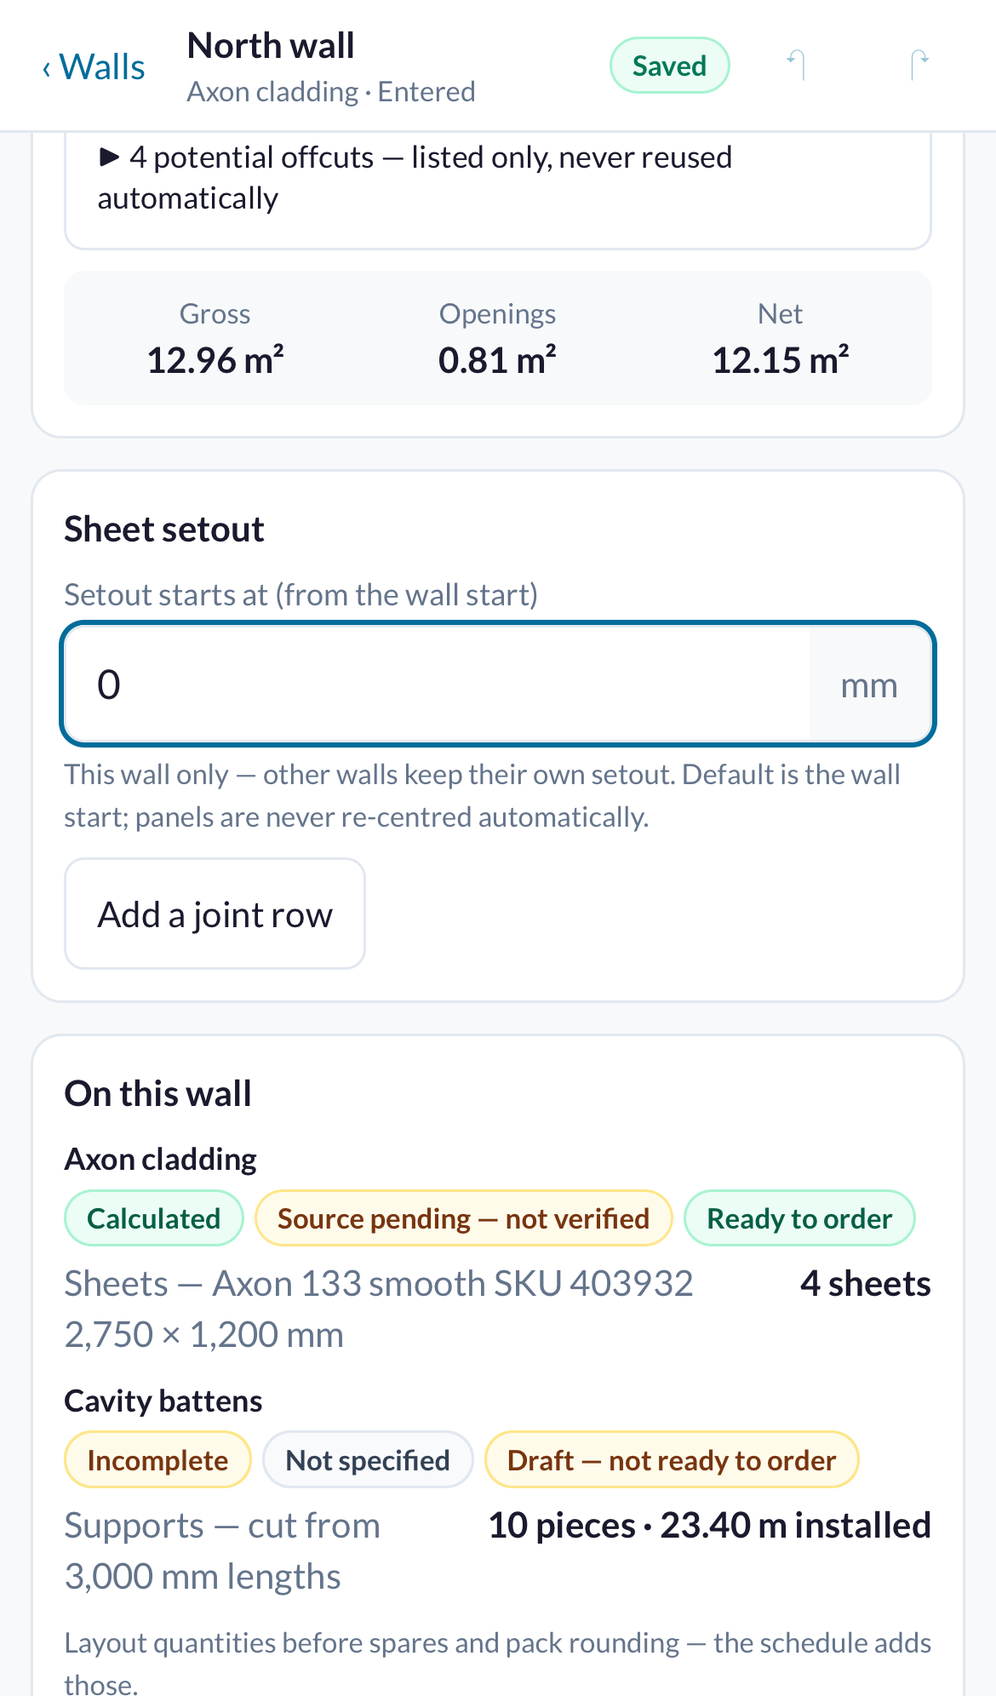
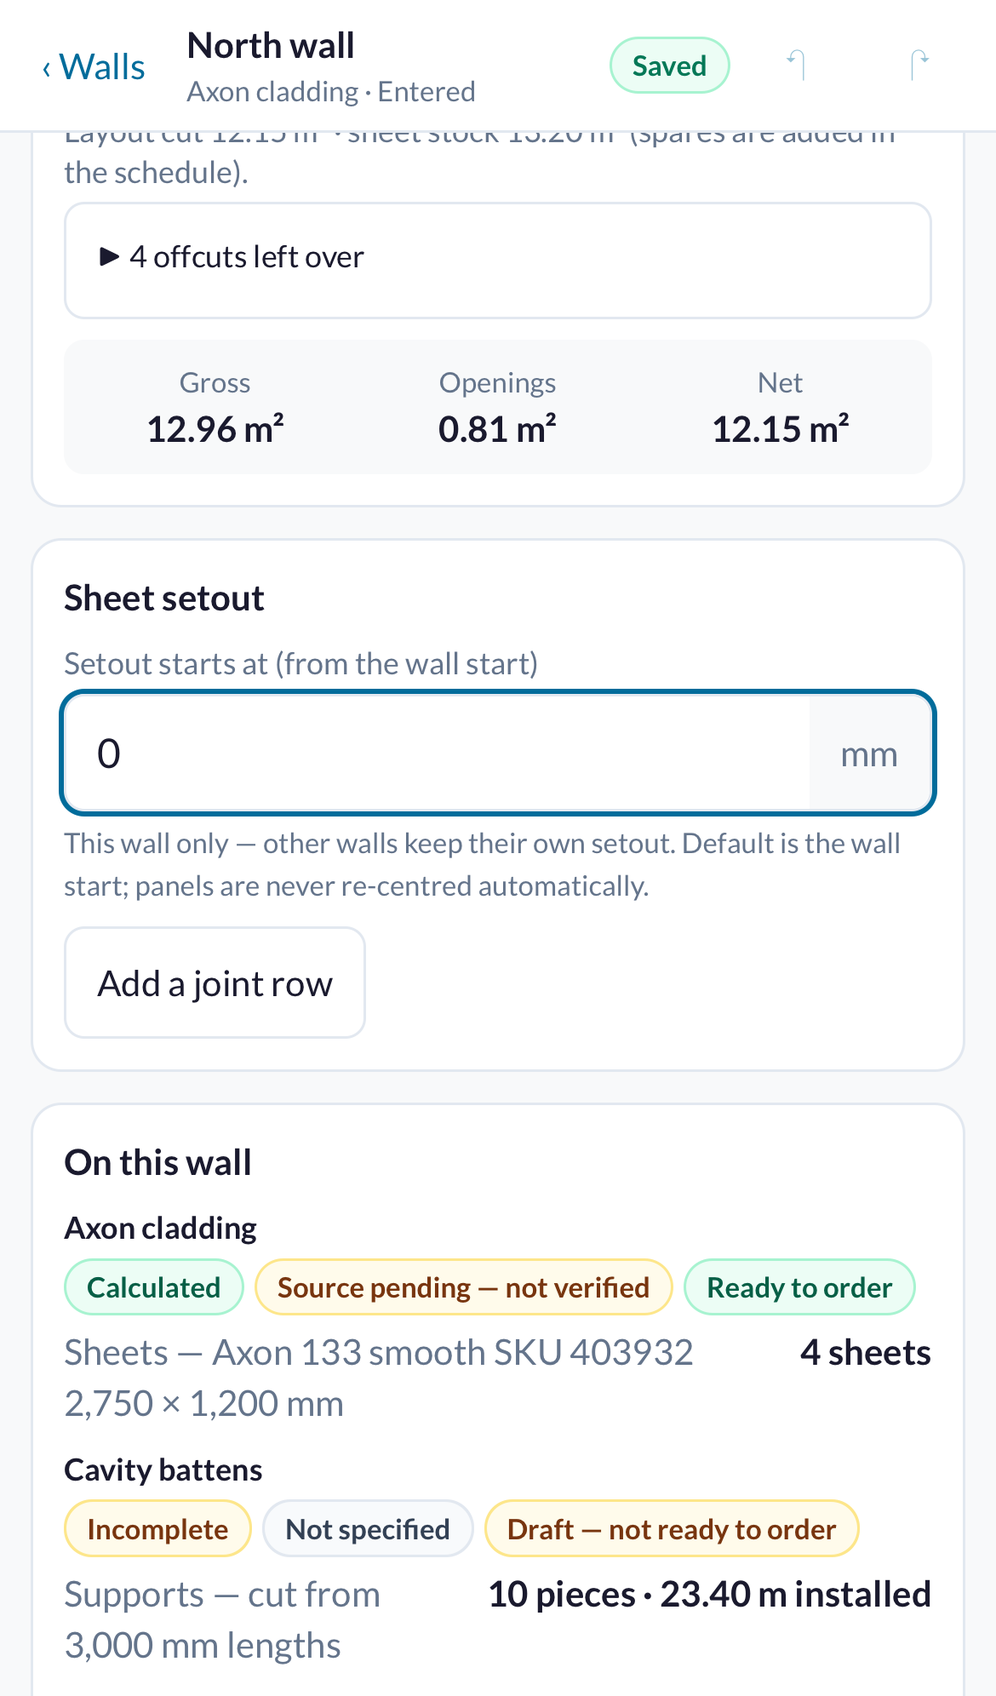
Share sheets across a wall, keeping the long factory edges (Hub review HUB 016)
Pieces are cut across the sheet's length only, so the tongue-and-groove
long edges stay and the 1,200 mm width is never cut down. Short pieces in
the same strip width are cut end to end from one sheet with a 5 mm kerf; a
ripped strip's offcut is reused only where its factory edge matches. The
recorded 6,573 x 3,600 Axon wall goes from 12 sheets to 8.

diff --git a/src/components/takeoff/WallsScreen.jsx b/src/components/takeoff/WallsScreen.jsx
@@ -392,7 +392,8 @@ function claddingElements(entry, bbox, wallProblems) {
   if (!layout) return { items, guides, notes, sheetInfo };
   const demandOf = (() => {
     const map = new Map();
-    for (const d of demandsForWall(result, entry.wallId, entry.tag)) { const c = d.sourceRefs?.[0]?.cell; if (c && !map.has(c)) map.set(c, d); }
+    // a shared sheet (HUB 016) lists every cell cut from it
+    for (const d of demandsForWall(result, entry.wallId, entry.tag)) for (const r of d.sourceRefs || []) { const c = r?.cell; if (c && !map.has(c)) map.set(c, d); }
     return (id) => map.get(id) || null;
   })();
   const narrowRefs = wallProblems.filter((p) => p.code === "narrow_strip").flatMap((p) => p.refs || []);
@@ -400,6 +401,8 @@ function claddingElements(entry, bbox, wallProblems) {
     const cols = new Map((layout.columns || []).map((c) => [c.index, c]));
     const multi = (layout.courses || []).length > 1;
     const tallest = Math.max(0, ...(layout.stockLengthsMm || []));
+    const cellById = new Map((layout.cells || []).map((c) => [c.id, c]));
+    const cellName = (id) => { const c = cellById.get(id); return c ? `strip ${c.col + 1}${multi ? ` course ${c.row + 1}` : ""}` : "another strip"; };
     for (const c of layout.cells || []) {
       const name = `Strip ${c.col + 1}${multi ? `, course ${c.row + 1}` : ""}`;
       if (!c.occupied) { items.push({ id: c.id, kind: "rect", rect: c.rect, state: "empty", info: { title: name, rows: [["Sheet", "None — no cladding in this cell"]], note: "Empty cells use no sheet." } }); continue; }
@@ -413,6 +416,8 @@ function claddingElements(entry, bbox, wallProblems) {
           rows: [
             ["Stock", tooTall ? `None fits — needs ${fmtMm(c.requiredLengthMm)} mm; ${layout.orientation === "horizontal" ? "longest" : "tallest"} listed is ${fmtMm(tallest)} mm` : `${c.sku ? `SKU ${c.sku} · ` : ""}${fmtMm(c.stockLengthMm)}${sheetW ? ` × ${fmtMm(sheetW)}` : ""} mm sheet`],
             ["Cut size", `${fmtMm(c.cutWidthMm)} × ${fmtMm(c.cutLengthMm)} mm`],
+            ...(c.sheetId && !tooTall ? [["From", c.source === "offcut" ? `The offcut of ${cellName(c.sharedWith?.[0])}'s sheet (${c.sheetId.replace("S", "sheet ")})`
+              : c.sharedWith?.length ? `${c.sheetId.replace("S", "Sheet ")} — shared with ${c.sharedWith.map(cellName).join(", ")}` : `${c.sheetId.replace("S", "Sheet ")} (its own)`]] : []),
             ...(layout.heightAllowanceMm ? [["Needed", `${fmtMm(c.requiredLengthMm)} mm incl. ${fmtMm(layout.heightAllowanceMm)} allowance`]] : []),
           ],
           note: tooTall ? (layout.orientation === "horizontal" ? "Longer than the longest listed sheet — add a joint row with its detail, or choose a longer listed sheet." : "Taller than the tallest listed sheet — add a joint row with its detail, or choose a taller listed sheet.") : col?.kind === "cut" ? `Cut strip: ${fmtMm(col.widthMm)} mm of the ${fmtMm(layout.coverMm)} mm cover.` : null,
@@ -421,12 +426,15 @@ function claddingElements(entry, bbox, wallProblems) {
     }
     for (const j of layout.joints || []) j.segments.forEach((s, k) => items.push(jointLine(j, s, k, "")));
     guides.push({ axis: layout.orientation === "horizontal" ? "y" : "x", at: layout.datumMm, label: "datum" });
-    // C0/C1: strips, cut strips (a 1 mm strip still takes a whole sheet), layout-cut vs stock area, potential offcuts
+    // C0/C1: strips, cut strips, layout-cut vs stock area; HUB 016: pieces share stock sheets (cutPlan), offcuts left over
     const cutCols = (layout.columns || []).filter((c) => c.kind !== "full");
-    const sheets = (layout.cells || []).filter((c) => c.occupied && c.stockLengthMm != null).length;
+    const pieces = (layout.cells || []).filter((c) => c.occupied && c.stockLengthMm != null).length;
+    const sheets = layout.cutPlan ? layout.cutPlan.sheets.length : pieces;   // HUB 016: sheets are shared — the planned stock sheets
     if ((layout.cells || []).length) {
       sheetInfo = {
-        strips: (layout.columns || []).length, cutWidths: cutCols.map((c) => c.widthMm), courses: (layout.courses || []).length, sheets,
+        strips: (layout.columns || []).length, cutWidths: cutCols.map((c) => c.widthMm), courses: (layout.courses || []).length, sheets, pieces,
+        kerfMm: layout.cutPlan?.kerfMm ?? null, shared: !!layout.cutPlan,
+        refused: (layout.cutPlan?.rejected || []).map((x) => `${cellName(x.cellId)} can't use the offcut from ${cellName(x.fromCellId)} — that offcut has the other long factory edge (tongue / groove)`),
         empty: (layout.cells || []).filter((c) => !c.occupied).length, layoutCutM2: layout.areas?.layoutCutM2, stockM2: layout.areas?.stockM2,
         offcuts: (layout.potentialOffcuts || []).map((o) => ({ ...o, cell: (layout.cells || []).find((c) => c.id === o.cellId) })),
       };
@@ -1623,11 +1631,13 @@ function WallEditor({ ws, view, wall, material, results, canEdit, act, onTrace, 
               <div className="space-y-1 text-xs text-ink" data-sheet-summary="">
                 <p>{plural(si.strips, "strip")}{si.cutWidths.length ? ` (${si.cutWidths.length} cut: ${si.cutWidths.map((w) => `${fmtMm(Math.round(w * 10) / 10)} mm`).join(", ")} wide)` : ""} × {plural(si.courses, "course")} → <b>{plural(si.sheets, "sheet")}</b>{si.empty ? ` · ${plural(si.empty, "empty cell")} use none` : ""}. A cut strip still uses a whole sheet.</p>
                 {Number.isFinite(si.layoutCutM2) && <p className="text-muted">Layout cut {fmtM2(si.layoutCutM2)} m² · sheet stock {fmtM2(si.stockM2)} m² (spares are added in the schedule).</p>}
-                {si.offcuts.length > 0 && (
+                {si.shared && si.pieces > si.sheets && <p data-sheet-shared="">{si.pieces} pieces cut from {plural(si.sheets, "sheet")}: sheets are shared across the wall, cut across their length only (the long factory edges stay), allowing {fmtMm(si.kerfMm)} mm per saw cut.</p>}
+                {(si.offcuts.length > 0 || si.refused.length > 0) && (
                   <details className="rounded-lg border border-hairline px-3" data-offcuts="">
-                    <summary className="min-h-[44px] cursor-pointer py-3 text-xs">{plural(si.offcuts.length, "potential offcut")} — listed only, never reused automatically</summary>
+                    <summary className="min-h-[44px] cursor-pointer py-3 text-xs">{si.shared ? `${plural(si.offcuts.length, "offcut")} left over` : `${plural(si.offcuts.length, "potential offcut")} — listed only, never reused automatically`}</summary>
                     <ul className="list-disc space-y-0.5 pb-2 pl-4 text-muted">
-                      {si.offcuts.map((o, i) => <li key={`${o.cellId}-${i}`}>Strip {(o.cell?.col ?? 0) + 1}{si.courses > 1 ? `, course ${(o.cell?.row ?? 0) + 1}` : ""}: {fmtMm(Math.round(o.widthMm))} × {fmtMm(Math.round(o.lengthMm))} mm</li>)}
+                      {si.offcuts.map((o, i) => <li key={`${o.cellId}-${i}`}>{o.sheetId ? `${o.sheetId.replace("S", "Sheet ")} (strip ${(o.cell?.col ?? 0) + 1}${si.courses > 1 ? `, course ${(o.cell?.row ?? 0) + 1}` : ""})` : `Strip ${(o.cell?.col ?? 0) + 1}${si.courses > 1 ? `, course ${(o.cell?.row ?? 0) + 1}` : ""}`}: {fmtMm(Math.round(o.widthMm))} × {fmtMm(Math.round(o.lengthMm))} mm</li>)}
+                      {si.refused.map((r) => <li key={r} data-offcut-refused="">{r}</li>)}
                     </ul>
                   </details>
                 )}

diff --git a/shared/takeoff/engine/cladding.js b/shared/takeoff/engine/cladding.js
@@ -22,6 +22,7 @@
 // blocking QUANTITY problems withhold demands. Inputs are validated, never thrown on.
 // =============================================================================
 import { EPS_MM, UNITS, demandId, emptyResult, identityKey, problem } from "./contract.js";
+import { planSheets } from "./sheetCutPlan.js";
 import { ceilToIncrement, formatMm, isFiniteNumber } from "../units.js";
 import {
   jointSpans, lineSpans, materialPieces, normaliseOpenings, piecesExtent, projectIntervals, subtractIntervals,
@@ -583,20 +584,68 @@ export function sheetLayout(wall, openings, product, rawOpts) {
     });
   }
 
+  // HUB 016: fibre-cement sheets are SHARED across the wall — cut across their length only, long factory edges kept —
+  // so the order is the planned stock sheets, never one sheet per cell (a foam system keeps one per cell)
+  let cutPlan = null;
+  const cellSheets = res.demands.filter((d) => d.role === "sheet");
+  if (base.family === "cladding" && cellSheets.length) {
+    const byCell = new Map(cells.filter((c) => c.occupied && c.stockLengthMm).map((c) => [c.id, c]));
+    const occ = new Set([...byCell.values()].map((c) => `${c.col}:${c.row}`));
+    const pieces = [...byCell.values()].map((c) => {
+      const left = occ.has(`${c.col - 1}:${c.row}`), right = occ.has(`${c.col + 1}:${c.row}`);
+      return { cellId: c.id, widthMm: c.cutWidthMm, lengthMm: c.requiredLengthMm, keep: left && right ? "full" : left ? "left" : right ? "right" : "none" };
+    });
+    const sheetW = prod.variants[0].rec.dimensionsMm.width;
+    const plan = planSheets({ pieces, lengthsMm: prod.variants.map((x) => x.lengthMm), sheetWidthMm: sheetW, coverMm: cover, kerfMm: opts.sheetCut?.kerfMm });
+    const demandOfCell = new Map(cellSheets.map((d) => [d.id, d]));
+    res.demands = res.demands.filter((d) => d.role !== "sheet");
+    stockMm2 = 0;
+    const name = (id) => { const c = byCell.get(id); return `strip ${c.col + 1}${rows.length > 1 ? ` course ${c.row + 1}` : ""}`; };
+    const fromOffcutOf = new Map(plan.fromOffcut.map((f) => [f.cellId, f.fromCellId]));
+    for (const sh of plan.sheets) {
+      const v = prod.variants.find((x) => Math.abs(x.lengthMm - sh.stockLengthMm) < EPS_MM) || prod.variants[prod.variants.length - 1];
+      const riders = plan.lanes.filter((l) => sh.cellIds.includes(l.fromCellId)).flatMap((l) => l.cellIds);
+      const all = [...sh.cellIds, ...riders];
+      const refs = all.flatMap((id) => demandOfCell.get(demandId(materialId, ctx.wallId, "sheet", id))?.sourceRefs || []);
+      stockMm2 += sheetW * v.lengthMm;
+      res.demands.push({
+        id: demandId(materialId, ctx.wallId, "sheet", sh.cellIds[0]), materialId, role: "sheet", kind: "sheet", unit: "sheet",
+        widthMm: sheetW, heightMm: v.lengthMm, quantity: 1,
+        identity: stockIdentity(v.rec, { orientation, unit: "sheet", stockLengthMm: v.lengthMm, stockWidthMm: sheetW }),
+        label: `${ctx.wallId} sheet ${sh.id.slice(1)} — ${v.rec.sku ?? v.rec.name} ${mm(v.lengthMm)}: ${all.length > 3 ? `${all.length} pieces` : all.map(name).join(", ")}`,
+        sourceRefs: refs, provenance: "calculated",
+      });
+      for (const id of all) { const c = byCell.get(id); c.sheetId = sh.id; c.source = fromOffcutOf.has(id) ? "offcut" : "sheet"; c.sharedWith = all.filter((x) => x !== id); c.stockLengthMm = v.lengthMm; c.sku = v.rec.sku ?? null; c.productId = v.rec.id ?? null; }
+    }
+    // what is left: each sheet's end beyond its cuts (full width) and each rip's unused part — listed, never counted as reused
+    offcuts.length = 0;
+    for (const sh of plan.sheets) if (sh.residualMm > EPS_MM) offcuts.push({ cellId: sh.cellIds[sh.cellIds.length - 1], sheetId: sh.id, widthMm: sheetW, lengthMm: sh.residualMm, allocated: false });
+    for (const l of plan.lanes) {
+      const left = l.lengthMm - l.usedMm - (l.cellIds.length ? plan.kerfMm : 0);
+      if (l.cellIds.length === 0) offcuts.push({ cellId: l.fromCellId, sheetId: byCell.get(l.fromCellId)?.sheetId || null, widthMm: l.widthMm, lengthMm: l.lengthMm, allocated: false, edge: l.edge });
+      else if (left > EPS_MM) offcuts.push({ cellId: l.fromCellId, sheetId: byCell.get(l.fromCellId)?.sheetId || null, widthMm: l.widthMm, lengthMm: left, allocated: false, edge: l.edge });
+    }
+    cutPlan = { kerfMm: plan.kerfMm, sheets: plan.sheets.map((sh) => ({ id: sh.id, stockLengthMm: sh.stockLengthMm, cellIds: sh.cellIds, residualMm: sh.residualMm })),
+      fromOffcut: plan.fromOffcut, rejected: plan.rejected };
+  }
+
   const sheets = res.demands.filter((d) => d.role === "sheet");
   const bySku = {};
   for (const d of sheets) bySku[d.identity.sku ?? d.identity.name] = (bySku[d.identity.sku ?? d.identity.name] || 0) + 1;
   res.layout = {
     method, wallId: ctx.wallId, family: base.family, orientation, datumMm: datum, coverMm: cover, heightAllowanceMm: allowance,
     openingPolicy: ctx.policy, lapDirection: opts.lapDirection ?? null, stockLengthsMm: prod.variants.map((x) => x.lengthMm),
-    openings: ctx.openings, columns: cols, courses: rows, cells, joints, potentialOffcuts: offcuts, components,
+    openings: ctx.openings, columns: cols, courses: rows, cells, joints, potentialOffcuts: offcuts, cutPlan, components,
     areas: { grossM2: ctx.areas.grossM2, openingM2: ctx.areas.openingM2, netM2: ctx.areas.netM2, layoutCutM2: layoutCutMm2 / 1e6, stockM2: stockMm2 / 1e6 },
     summary: { sheets: sheets.length, bySku },
   };
-  res.explain.push(
-    `${ctx.wallId}: ${cols.length} strip(s) at ${mm(cover)} effective cover × ${rows.length} course(s) → ${sheets.length} occupied cell(s) = ${sheets.length} sheet(s); empty cells use none.`,
-    `Each strip takes the shortest listed length ≥ its cut + ${mm(allowance)} allowance; a raked strip is sized by its highest point.`,
-    "No offcut reuse: potential offcuts are listed separately. Spares and pack rounding are applied at purchase level.",
+  const occupiedCells = cells.filter((c) => c.occupied && c.stockLengthMm).length;
+  res.explain.push(cutPlan
+    ? `${ctx.wallId}: ${cols.length} strip(s) at ${mm(cover)} effective cover × ${rows.length} course(s) → ${occupiedCells} piece(s) cut from ${sheets.length} sheet(s): sheets are only cut across their length (the long factory edges stay), ${mm(cutPlan.kerfMm)} per saw cut; empty cells use none.`
+    : `${ctx.wallId}: ${cols.length} strip(s) at ${mm(cover)} effective cover × ${rows.length} course(s) → ${sheets.length} occupied cell(s) = ${sheets.length} sheet(s); empty cells use none.`,
+    `Each piece is its cut + ${mm(allowance)} allowance; a raked strip is sized by its highest point.`,
+    cutPlan ? "A ripped strip's offcut keeps its other factory edge, so it is only reused where that edge fits. Spares and pack rounding are applied at purchase level."
+      : "No offcut reuse: potential offcuts are listed separately. Spares and pack rounding are applied at purchase level.",
   );
   return finalise(res, { records, installation });
 }

diff --git a/shared/takeoff/engine/sheetCutPlan.js b/shared/takeoff/engine/sheetCutPlan.js
@@ -1,0 +1,63 @@
+// =============================================================================
+// shared/takeoff/engine/sheetCutPlan.js — sharing cladding sheets across a wall (Hub review HUB 016, 20 Oct 2026).
+//
+// Owner rule (Sam): the LONG edges of a sheet stay factory — tongue on one side, groove on the other — so a sheet keeps
+// its width; the other direction can be cut however you like. So:
+//   * a full-width piece is a cross-cut slice of a stock sheet: slices are packed into the listed stock lengths by the
+//     shared linear allocator (one saw cut per piece), e.g. five 590 mm upper pieces from one 3,000 sheet;
+//   * a narrow piece (an end strip) keeps the factory edge on the side that meets its neighbour and is ripped from a
+//     slice; the rip's remainder keeps the OTHER factory edge and is reused only by a narrow piece needing exactly that
+//     edge (nothing is turned over), e.g. the opposite end of a wall. Anything else is refused with its reason.
+// Pure and deterministic for any input order. Pieces are never split; a piece longer than every listed sheet is the
+// caller's (sheet_too_tall) problem and must not be passed in.
+// =============================================================================
+import { EPS_MM } from "./contract.js";
+import { allocateLinear } from "./allocator.js";
+
+/** Saw-cut allowance per cut when the product hasn't saved its own (conservative: never orders short). */
+export const SHEET_KERF_DEFAULT_MM = 5;
+
+/**
+ * @param {{ pieces: Array<{cellId:string, widthMm:number, lengthMm:number, keep:"full"|"left"|"right"|"none"}>,
+ *   lengthsMm: number[], sheetWidthMm: number, coverMm: number, kerfMm?: number }} p
+ * @returns {{ sheets: Array<{id:string, stockLengthMm:number, cellIds:string[], residualMm:number}>,
+ *   fromOffcut: Array<{cellId:string, fromCellId:string}>, lanes: Array<{fromCellId:string, edge:string, widthMm:number, lengthMm:number, usedMm:number, cellIds:string[]}>,
+ *   rejected: Array<{cellId:string, fromCellId:string, reason:string}>, kerfMm:number }}
+ */
+export function planSheets({ pieces, lengthsMm, sheetWidthMm, coverMm, kerfMm = SHEET_KERF_DEFAULT_MM }) {
+  const kerf = Number.isFinite(kerfMm) && kerfMm >= 0 ? kerfMm : SHEET_KERF_DEFAULT_MM;
+  const order = (a, b) => b.lengthMm - a.lengthMm || b.widthMm - a.widthMm || (a.cellId < b.cellId ? -1 : a.cellId > b.cellId ? 1 : 0);
+  const narrow = pieces.filter((p) => p.widthMm < coverMm - EPS_MM && p.keep !== "full").sort(order);
+  const slices = pieces.filter((p) => !(p.widthMm < coverMm - EPS_MM && p.keep !== "full")).map((p) => ({ cellId: p.cellId, lengthMm: p.lengthMm }));
+  const lanes = [], fromOffcut = [], rejected = [];
+  for (const p of narrow) {
+    const room = (l) => l.lengthMm - l.usedMm - (l.cellIds.length ? kerf : 0);
+    const fitsSize = (l) => l.widthMm >= p.widthMm - EPS_MM && room(l) >= p.lengthMm - EPS_MM;
+    const edgeOk = (l) => p.keep === "none" || l.edge === p.keep;
+    const ok = lanes.filter((l) => fitsSize(l) && edgeOk(l)).sort((a, b) => a.widthMm - b.widthMm || room(a) - room(b) || (a.fromCellId < b.fromCellId ? -1 : 1));
+    if (ok.length) {
+      const l = ok[0];
+      l.usedMm += (l.cellIds.length ? kerf : 0) + p.lengthMm;
+      l.cellIds.push(p.cellId);
+      fromOffcut.push({ cellId: p.cellId, fromCellId: l.fromCellId });
+      continue;
+    }
+    const near = lanes.find((l) => fitsSize(l) && !edgeOk(l));
+    if (near) rejected.push({ cellId: p.cellId, fromCellId: near.fromCellId, reason: "factory-edge" });
+    // its own cross-cut slice, ripped to width; the rip keeps the other long factory edge
+    slices.push({ cellId: p.cellId, lengthMm: p.lengthMm });
+    const w = sheetWidthMm - p.widthMm - kerf;
+    if (w > EPS_MM) lanes.push({ fromCellId: p.cellId, edge: p.keep === "left" ? "right" : p.keep === "right" ? "left" : "both", widthMm: w, lengthMm: p.lengthMm, usedMm: 0, cellIds: [] });
+  }
+  for (const l of lanes) if (l.edge === "both") l.edge = "none";
+  const sheets = [];
+  if (slices.length) {
+    const identity = { family: "cladding-sheet", widthMm: sheetWidthMm };
+    const policy = { kind: "list", lengthsMm: [...lengthsMm].sort((a, b) => a - b), kerfMm: kerf, kerfConfirmed: true, finalEndAcceptable: true, sharePieces: true };
+    const r = allocateLinear(slices.map((s) => ({ id: s.cellId, kind: "linear", unit: "piece", lengthMm: s.lengthMm, lengthKind: "cut", quantity: 1, identity, stockPolicy: policy, label: s.cellId })), {});
+    const bars = (r.groups[0]?.bars || []).map((b) => ({ stockLengthMm: b.stockLengthMm, cellIds: b.cuts.map((c) => c.demandId).sort(), residualMm: b.residualMm }));
+    bars.sort((a, b) => (a.cellIds[0] < b.cellIds[0] ? -1 : a.cellIds[0] > b.cellIds[0] ? 1 : 0));
+    bars.forEach((b, i) => sheets.push({ id: `S${i + 1}`, ...b }));
+  }
+  return { sheets, fromOffcut, lanes, rejected, kerfMm: kerf };
+}

diff --git a/e2e/ui-review/tc-walls.spec.js b/e2e/ui-review/tc-walls.spec.js
@@ -369,7 +369,8 @@ test.describe("TC walls — phone journeys", () => {
     await expect(page.locator('[data-el-state="joint"]')).toHaveCount(1);
     const qty = page.getByRole("region", { name: "Quantities on this wall" });
     await expect(qty).toContainText("3,000 × 1,200 mm"); // course 1: 0–3,000
-    await expect(qty).toContainText("2,450 × 1,200 mm"); // course 2: 3,010–3,500 → shortest listed
+    // HUB 016: course 2's five 490 mm pieces share ONE sheet — 5 × 490 + saw cuts needs the 2,750 (not five sheets)
+    await expect(qty).toContainText("2,750 × 1,200 mm1 sheet");
     await expect(qty).toContainText("Horizontal joint strips");
     // an opening covering strip 1's whole upper course: that cell is EMPTY (hatched) and consumes no sheet
     await page.getByRole("button", { name: "Close panel" }).click();
@@ -899,7 +900,7 @@ test.describe("TC walls — review additions at 375 px", () => {
     await page.getByRole("button", { name: "Open North wall" }).click();
     await page.getByLabel("Wall length").fill("4801"); await page.getByLabel("Wall length").press("Enter");
     await page.locator("[data-offcuts] summary").click();
-    await expect(page.locator("[data-offcuts]")).toContainText("Strip 5: 1,199 × 2,700 mm"); // the cover ripped off the 1 mm strip
+    await expect(page.locator("[data-offcuts]")).toContainText("(strip 5): 1,194 × 2,700 mm"); // the cover ripped off the 1 mm strip, less the 5 mm saw cut (HUB 016)
     await noHorizontalScroll(page);
     for (let i = 0; i < 4; i++) {
       const plus = page.getByRole("button", { name: "Zoom in drawing" });

diff --git a/shared/takeoff/engine/dispatch.js b/shared/takeoff/engine/dispatch.js
@@ -660,7 +660,8 @@ export function computeGenericMaterials(materials, contributions, ctx) {
     // accessories also depend on the cladding layout joints of their walls
     const wallsOf = items.filter((x) => x.m.kind === "wall").map((x) => x.m.id);
     const depKey = dependencyKey(mat, items, ctx, openingsByWall, offcuts, mat.spec?.family === "accessory" ? wallsOf.map((id) => jointsByWall.get(id) || [])
-      : mat.spec?.family === "batten" ? wallsOf.map((id) => sheetJointsByWall.get(id) || []) : null);
+      : mat.spec?.family === "batten" ? wallsOf.map((id) => sheetJointsByWall.get(id) || [])
+      : mat.methodKey === "sheet_layout" ? { sheetPlan: 1 } : null);   // HUB 016: sheets are now shared — lines saved before are reviewed
     let pl = { lines: [], allocation: null, appendix: { aluminium: [], timber: [], layouts: [] }, omitted: [] };
     if (n) {
       try { pl = purchaseLines(mat, n, demands, matKey, sink); } catch (e) {

diff --git a/docs/sops/SOP_CHANGELOG.md b/docs/sops/SOP_CHANGELOG.md
@@ -4,6 +4,7 @@ Track every SOP change here. One row per change.
 
 ---
 
+| 2026-10-20 | Takeoffs — 20-09 v1.3: sheets shared across a wall — pieces cut across the length only so the long tongue-and-groove edges stay, short pieces cut end to end from one sheet with a 5 mm saw cut, ripped-strip offcuts reused only on the matching factory edge (HUB 016) | docs/sops/20_takeoff/20-09_cladding_walls_and_elevation.md | Done (untested) | Claude |
 | 2026-10-20 | Takeoffs — 20-09: automatic horizontal joints from a joint rule (Blue Leaf: 10 mm gap + H-flashing), one-tap from the wall problem; per-wall settings now kept by the server (HUB 015) | docs/sops/20_takeoff/20-09_cladding_walls_and_elevation.md | Done (untested) | Claude |
 | 2026-10-20 | Takeoffs — 20-09: gable values save one at a time (a missing apex position is a draft, not a refused save) (HUB 017) | docs/sops/20_takeoff/20-09_cladding_walls_and_elevation.md | Done (untested) | Claude |
 | 2026-10-20 | Takeoffs — 20-06 v2.4: supplier pickup / branch address (migration 210), Edit supplier from the order, supplier saved on the draft at once, Pick up prefilled (HUB 019) | docs/sops/20_takeoff/20-06_export_and_record_orders.md | Done (untested) | Claude |
